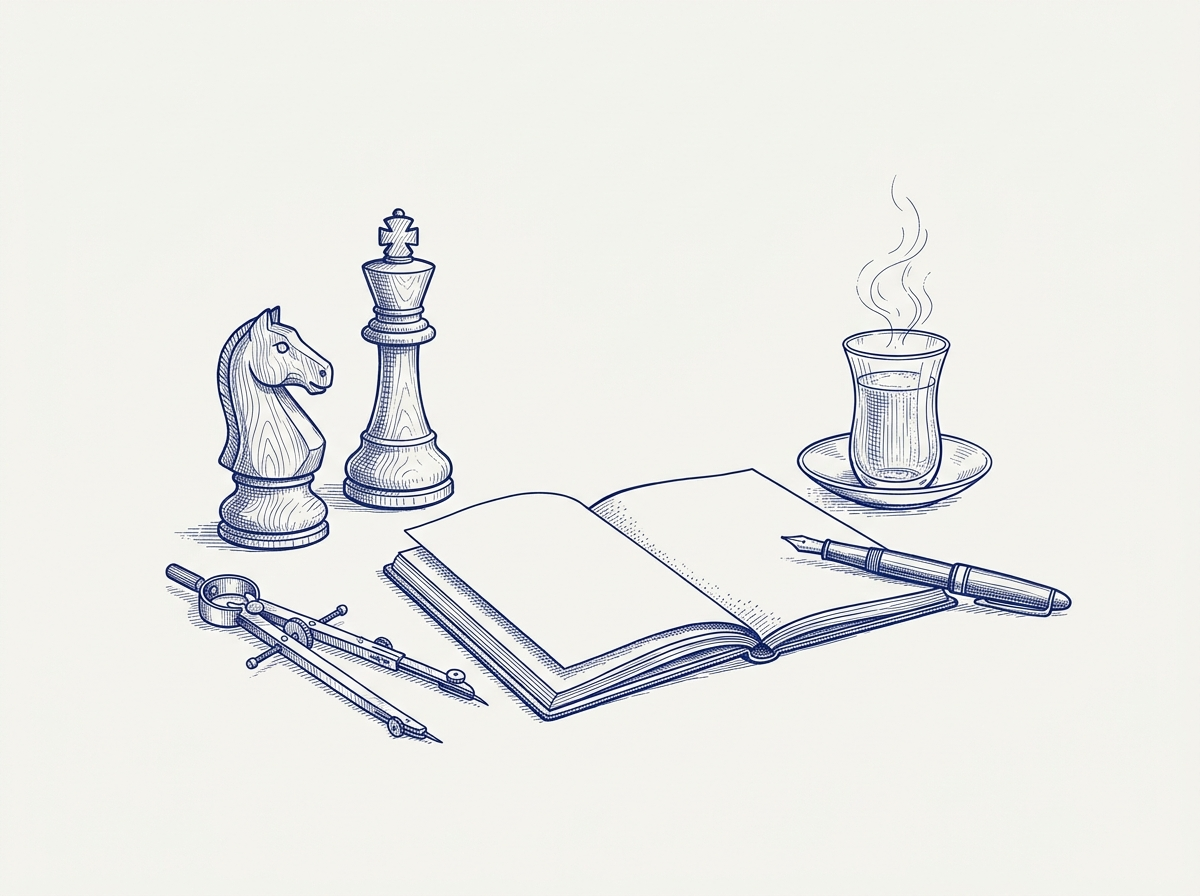
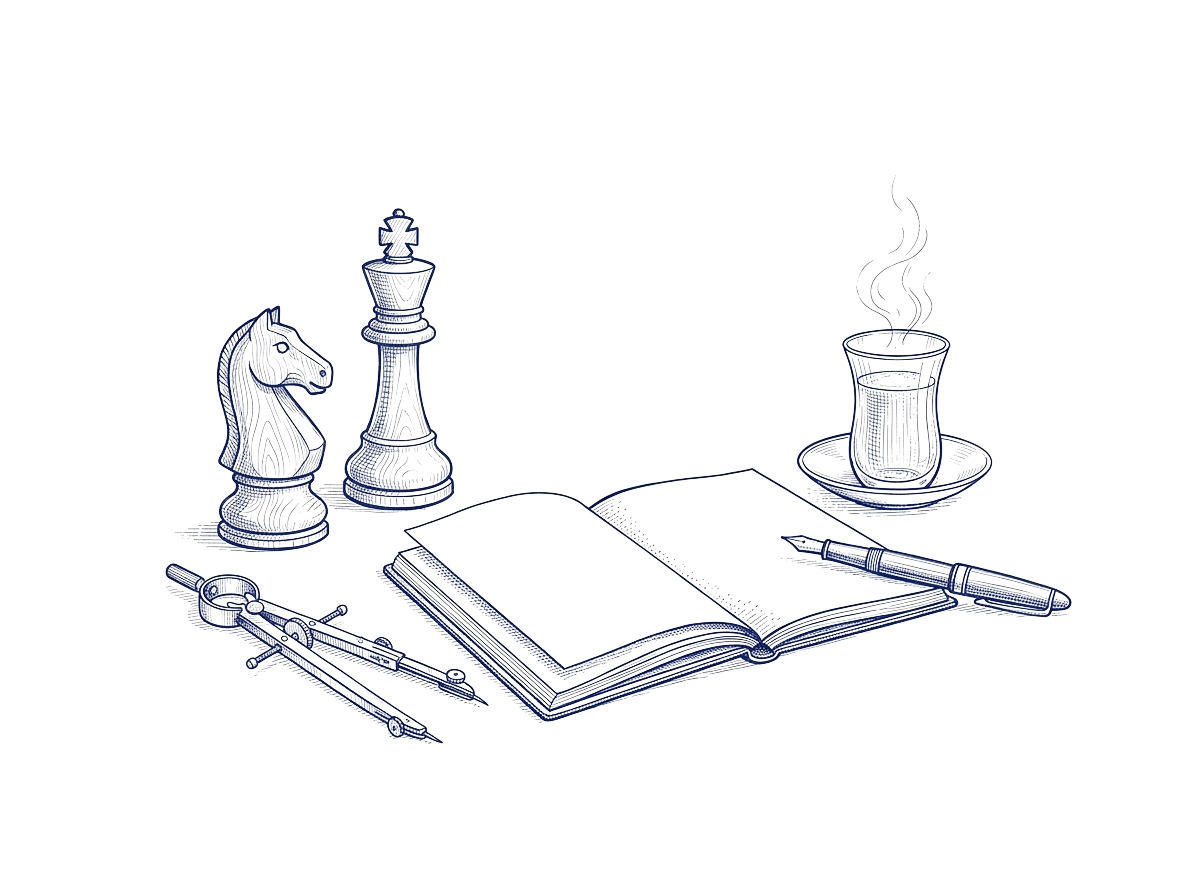
Make advisory hero sketch borderless and enlarged

diff --git a/src/components/AdvisoryPage.jsx b/src/components/AdvisoryPage.jsx
@@ -180,23 +180,18 @@ export default function AdvisoryPage({ onNavigate, isDark }) {
               </div>
             </div>
 
-            {/* RHS: Contextual Hand-Drawn Sketch Still Life */}
-            <div className="lg:col-span-5 flex justify-center">
-              <div className="relative p-6 bg-[#FAF6F0] dark:bg-[#162342]/40 rounded-3xl border border-[#E2E4E8] dark:border-[#1E293B] w-full max-w-md shadow-inner">
-                <img
-                  src="/illustrations/advisory-study.png"
-                  alt="Executive Advisory Study Still Life: Chess King and Knight, Drafting Compass, Open Journal, and Steaming Tea"
-                  className="w-full h-auto object-contain rounded-2xl mix-blend-multiply dark:mix-blend-normal"
-                  onError={(e) => {
-                    // Fallback to placeholder box if image asset path differs
-                    e.currentTarget.style.display = 'none';
-                  }}
-                />
-                <div className="mt-4 pt-3 border-t border-[#E2E4E8] dark:border-[#1E293B]/60 flex items-center justify-between text-[11px] font-mono uppercase tracking-wider text-[#64748B]">
-                  <span>Focus & Perspective</span>
-                  <span>Lucknow Roots</span>
-                </div>
-              </div>
+            {/* RHS: Large Borderless Architectural Line Art (No Enclosing Box, No Captions) */}
+            <div className="lg:col-span-5 flex items-center justify-center lg:justify-end relative z-10">
+              <img
+                src="/illustrations/advisory-study.png"
+                alt="Executive Advisory Study Line Art"
+                className="w-full max-w-md lg:max-w-xl h-auto object-contain mix-blend-multiply dark:hidden transition-transform duration-500 hover:scale-105"
+              />
+              <img
+                src="/illustrations/advisory-study-dark.png"
+                alt="Executive Advisory Study Line Art"
+                className="w-full max-w-md lg:max-w-xl h-auto object-contain hidden dark:block transition-transform duration-500 hover:scale-105"
+              />
             </div>
           </div>
         </section>
